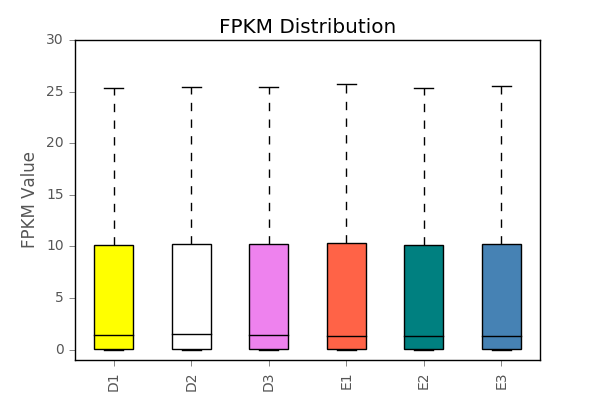
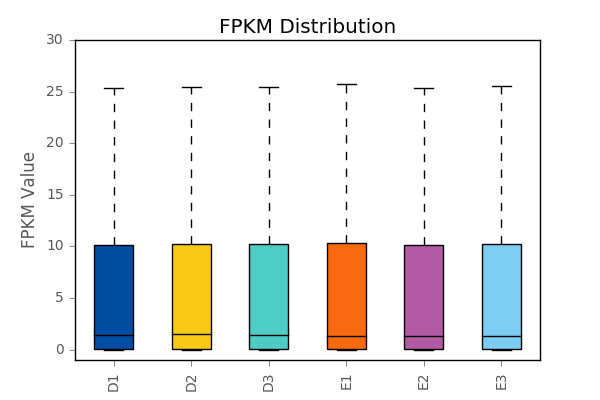
color

diff --git a/plot/fpkm_distribution/fpkm_distribution_box.py b/plot/fpkm_distribution/fpkm_distribution_box.py
@@ -22,7 +22,8 @@ def usage():
 
 def prettify(ax,box_plot,df,title,ylabel):
 #	colors = [name for name, hex in sorted(matplotlib.colors.cnames.items())]
-	cnames =  sorted(list(matplotlib.colors.cnames.keys()))[::2][::-1]
+	goodcolors = ['#004DA1','#F7CA18','#4ECDC4','#F9690E','#B35AA5','#7DCDF3','#0080CC','#F29F41','#DE6298','#C4EFF6','#C8F7C5','#FCECBB','#F9B7B2','#E7C3FC','#81CFE0','#BDC3C7','#EDC0D3','#E5EF64','#4ECDC4','#168D7C','#103652','#D2484C','#E79D01']
+	cnames =  goodcolors + sorted(list(matplotlib.colors.cnames.keys()))[::2][::-1]
 
 	for patch, color in zip(box_plot['boxes'], cnames):
 		patch.set_facecolor(color)
